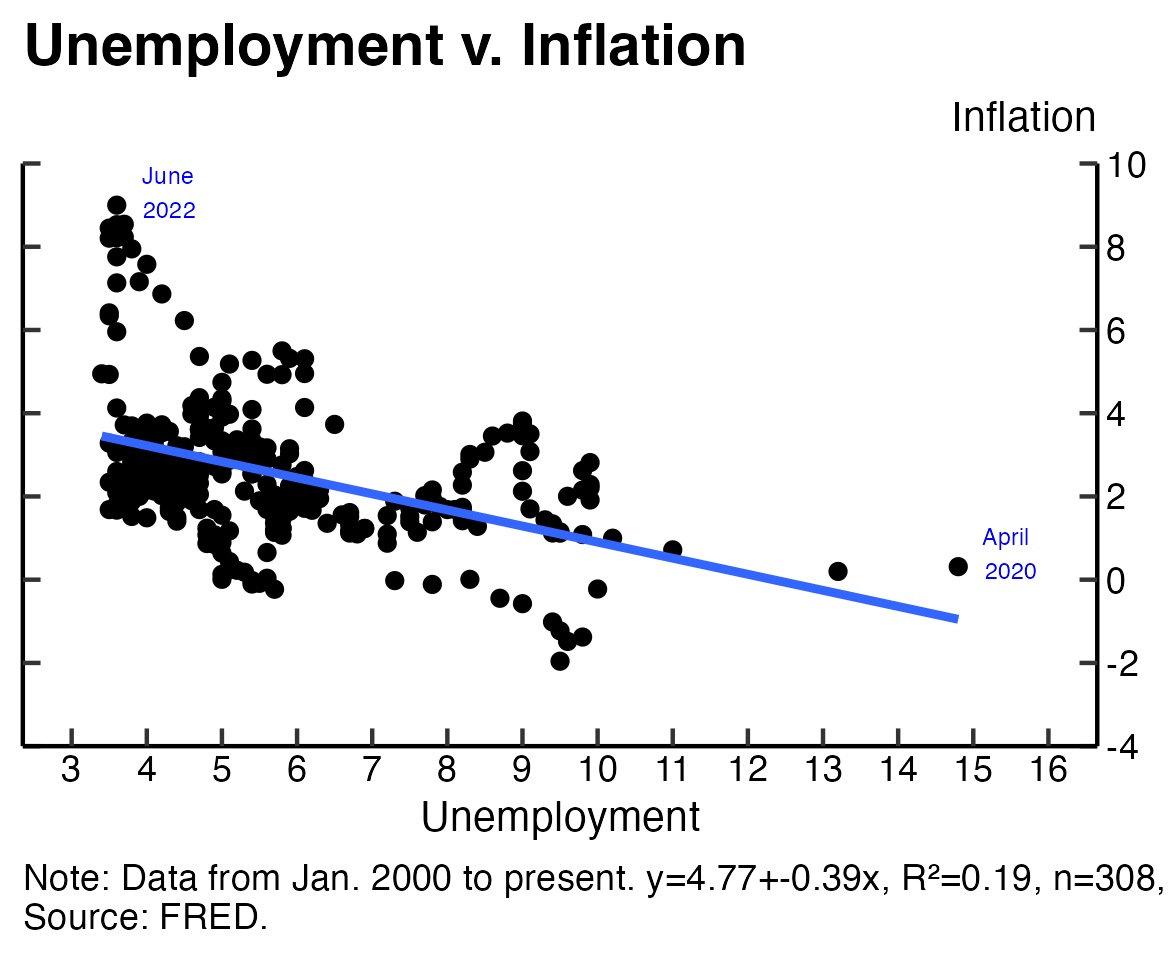
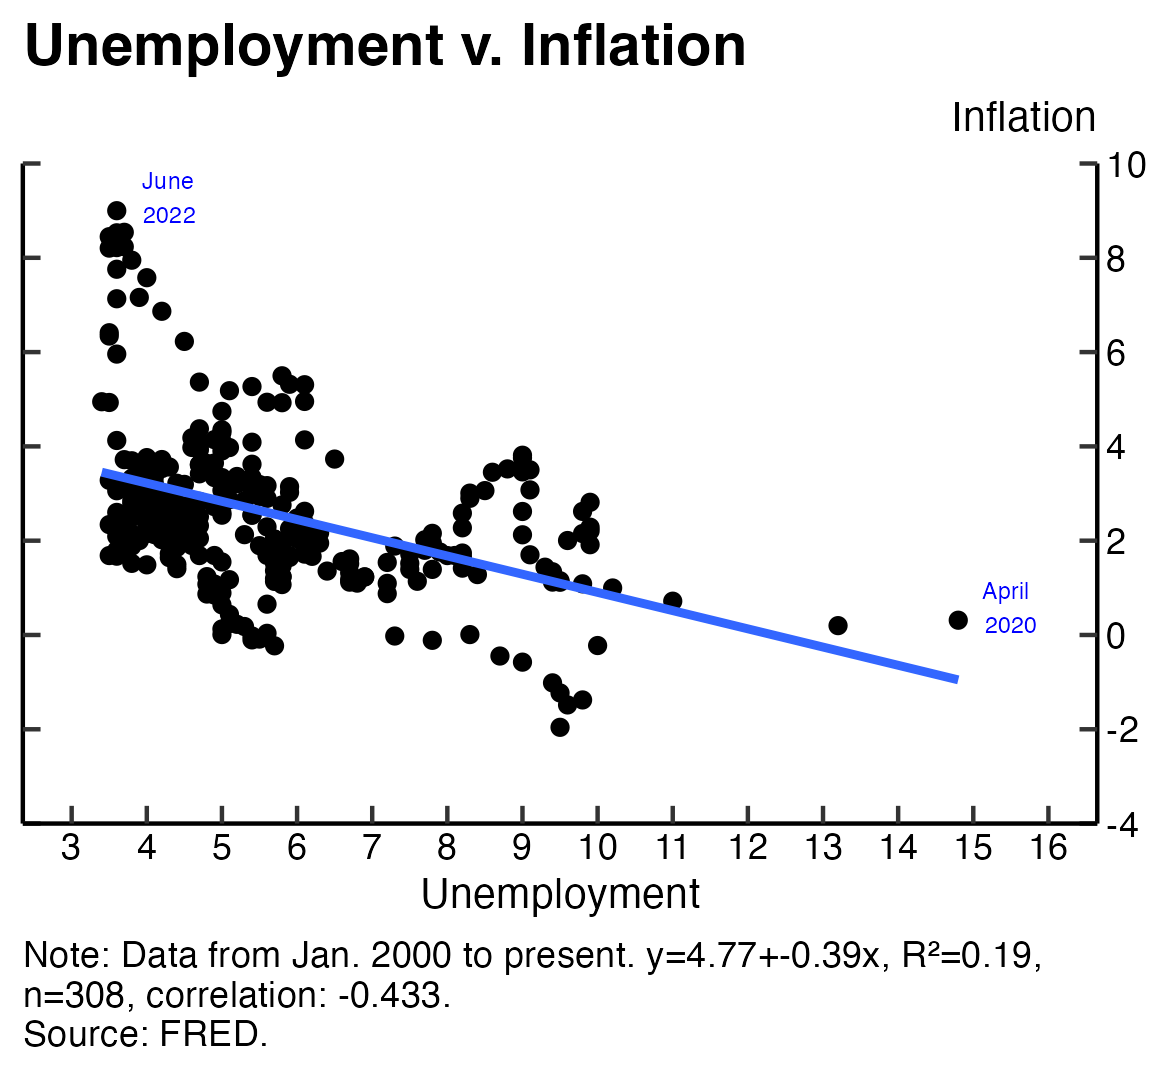
format footnotes

diff --git a/README.md b/README.md
@@ -18,7 +18,7 @@ Although the exact figure for the "natural rate of unemployment" is unkown - it 
 
 ![Plot #2](plots/plot_cpi_unrate.png)
 
-The two varibales seem to move in an inverse relationship - when CPI is down the unemployment rate is up. This relationship is described by [the Phillips curve](https://en.wikipedia.org/wiki/Phillips_curve#/media/File:U.S._Phillips_Curve_2000_to_2013.png). However, the relationship is not strict as seen below.
+The two varibales seem to have in an inverse relationship - when unemployment is up inflation is down. This negative correlation (-0.433) is described by [the Phillips curve](https://en.wikipedia.org/wiki/Phillips_curve#/media/File:U.S._Phillips_Curve_2000_to_2013.png). However, if we plot the two variables aginst eachother, we see that the relationship is imperfect. There are other unobserved varibales that affect inflation.
 
 ![Plot #Phil](plots/plot_phillips_curve.png)
 
